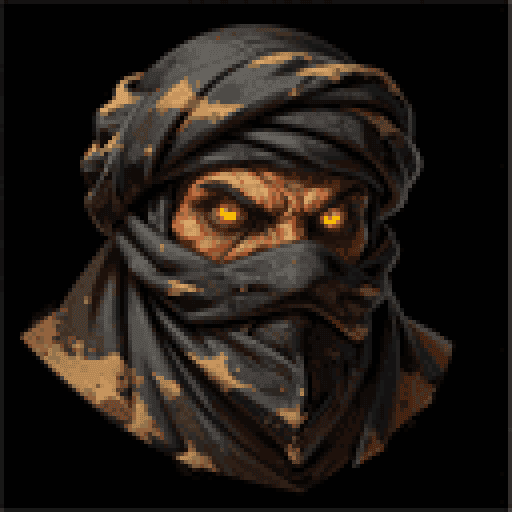
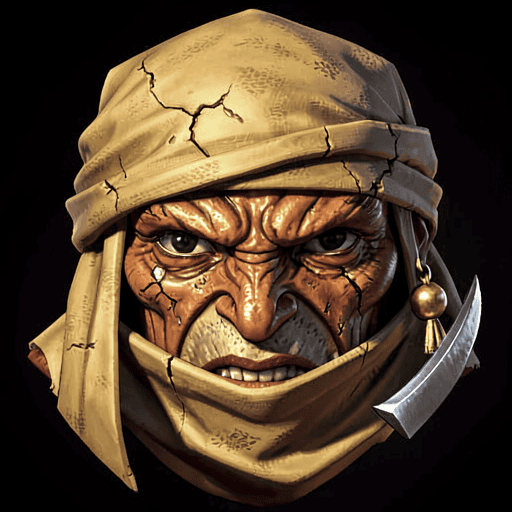
feat(assets): nove desert monster portrety (Act 2) — pregenerovane pres Flux 512x512, konzistentni s ostatnimi; kobra, pharaoh, worm upraveny; sw v25

diff --git a/public/sw.js b/public/sw.js
@@ -1,5 +1,5 @@
 const CODE_CACHE = 'boss-slayer-code-v131';
-const ASSET_CACHE = 'boss-slayer-assets-v24';
+const ASSET_CACHE = 'boss-slayer-assets-v25';
 
 const CODE_FILES = ['/', '/index.html', '/style.css?v=130', '/manifest.json'];
 
